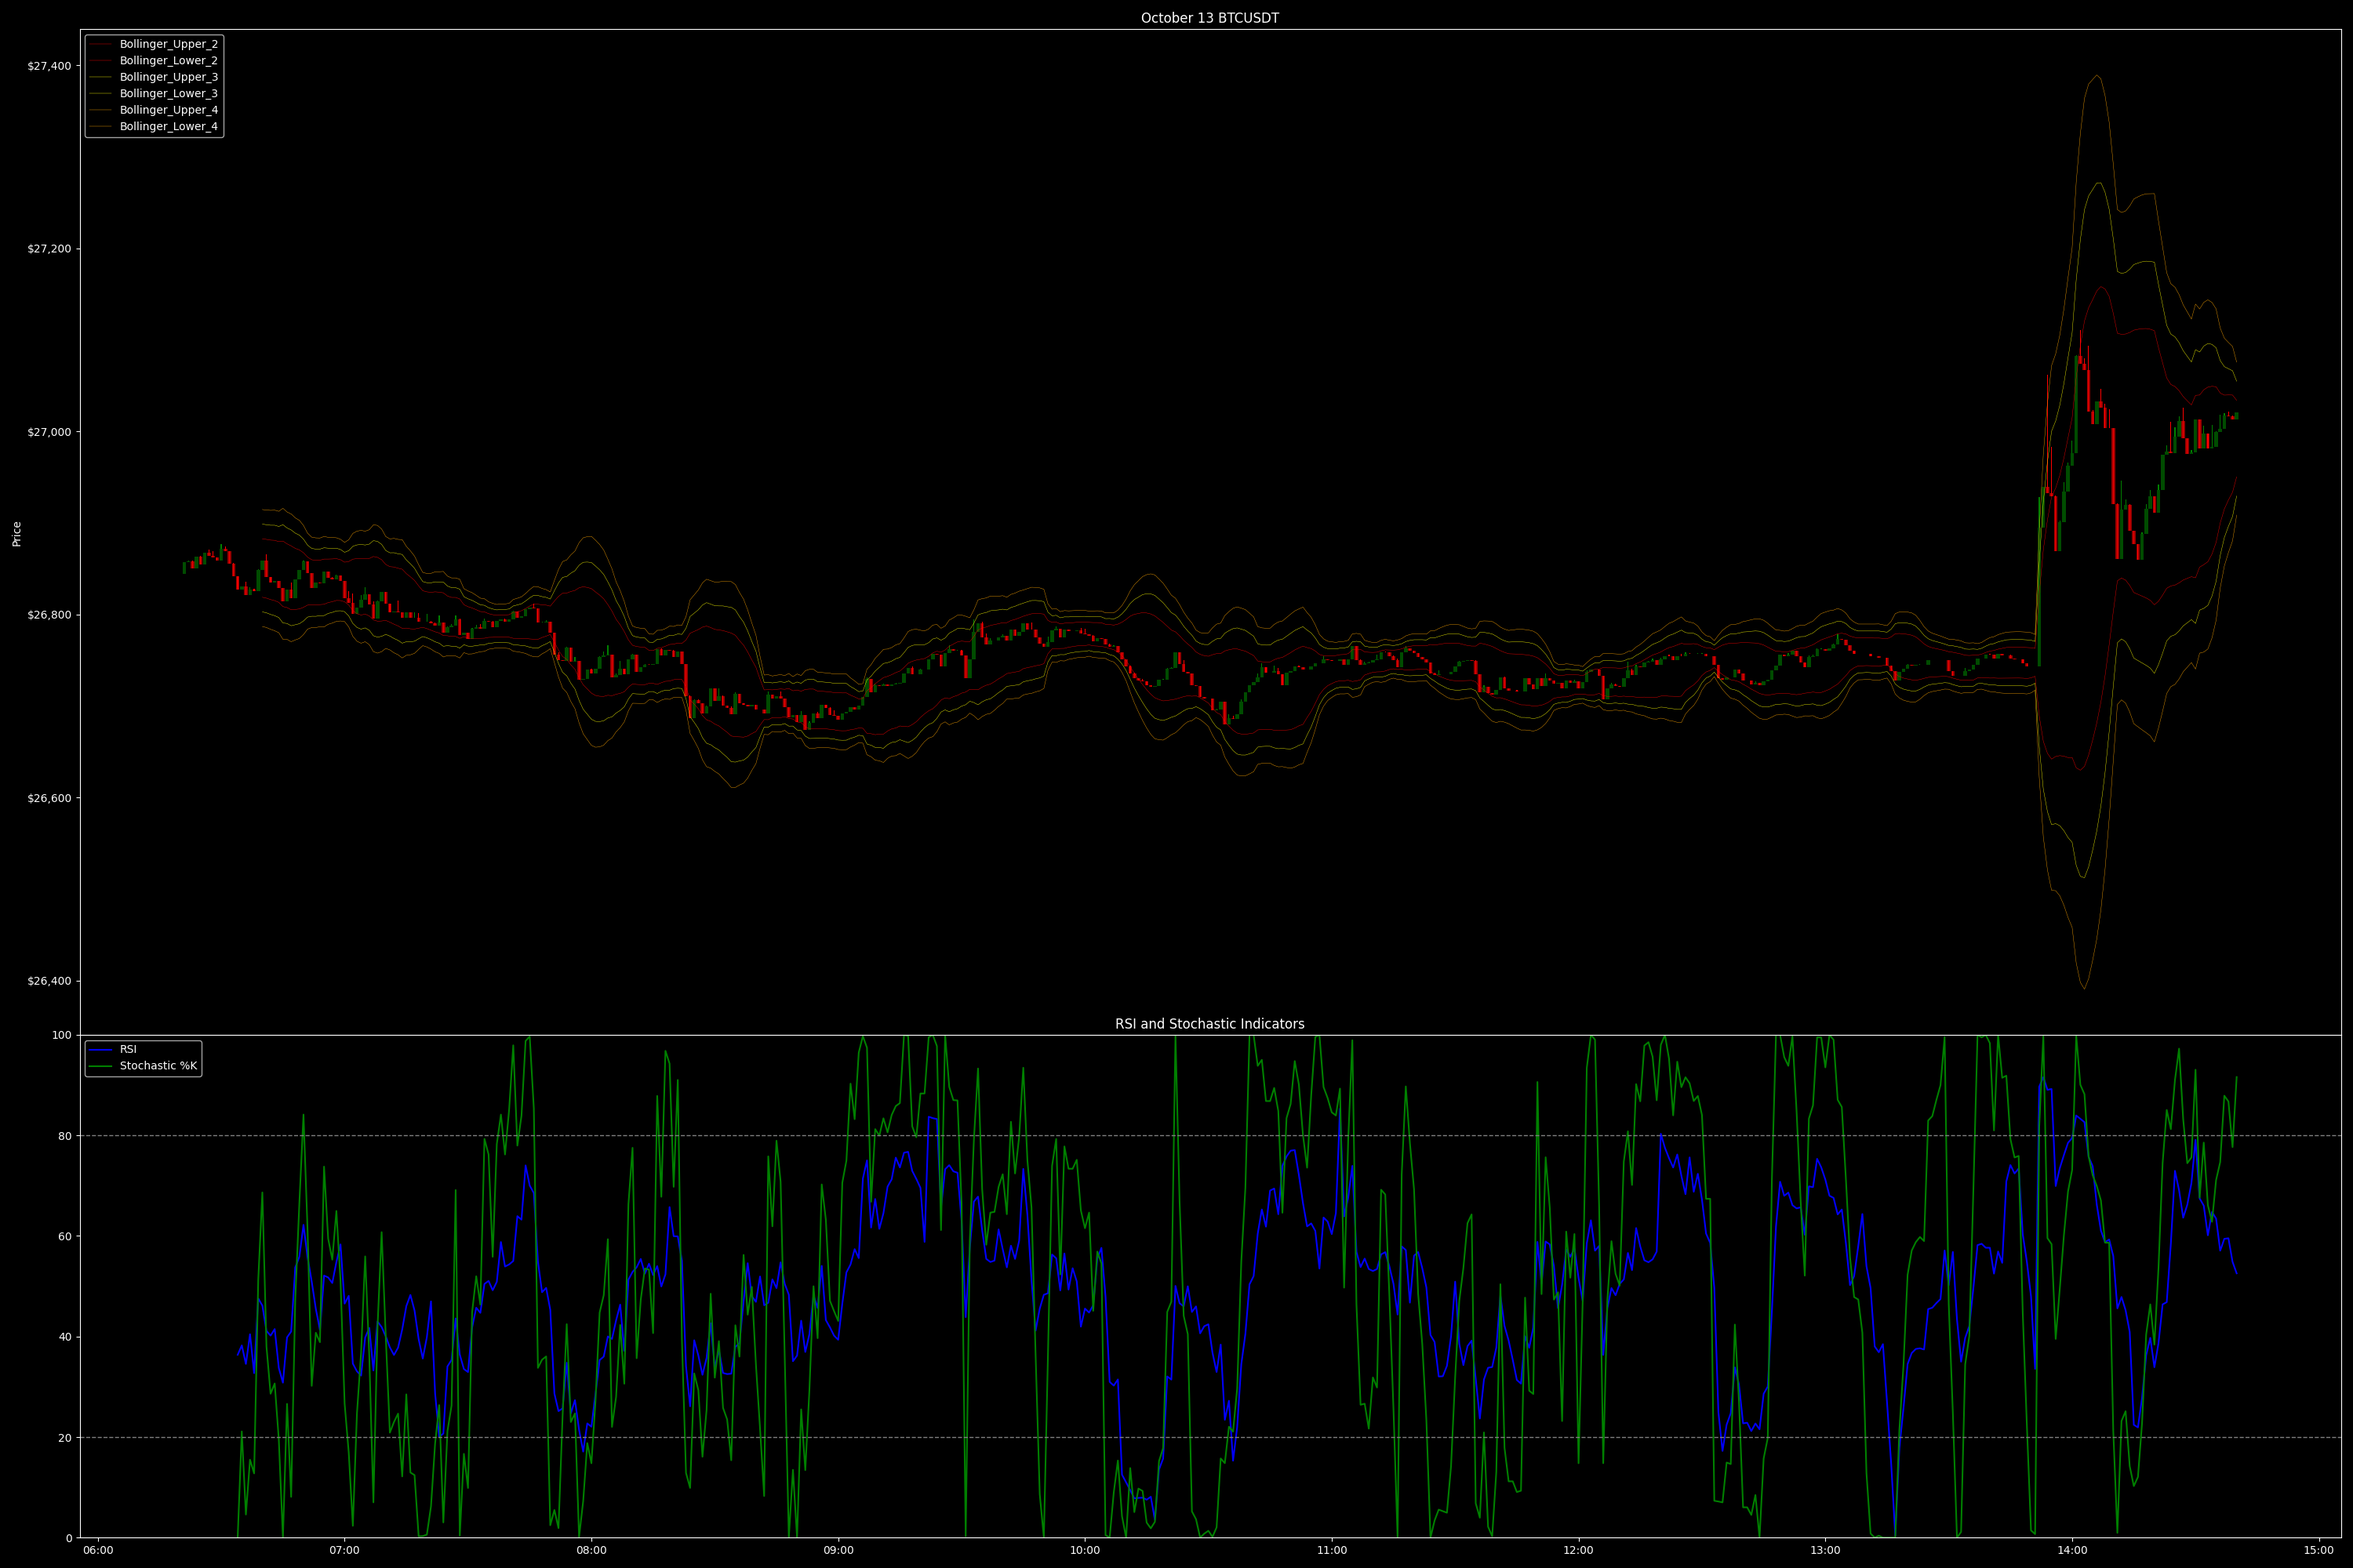
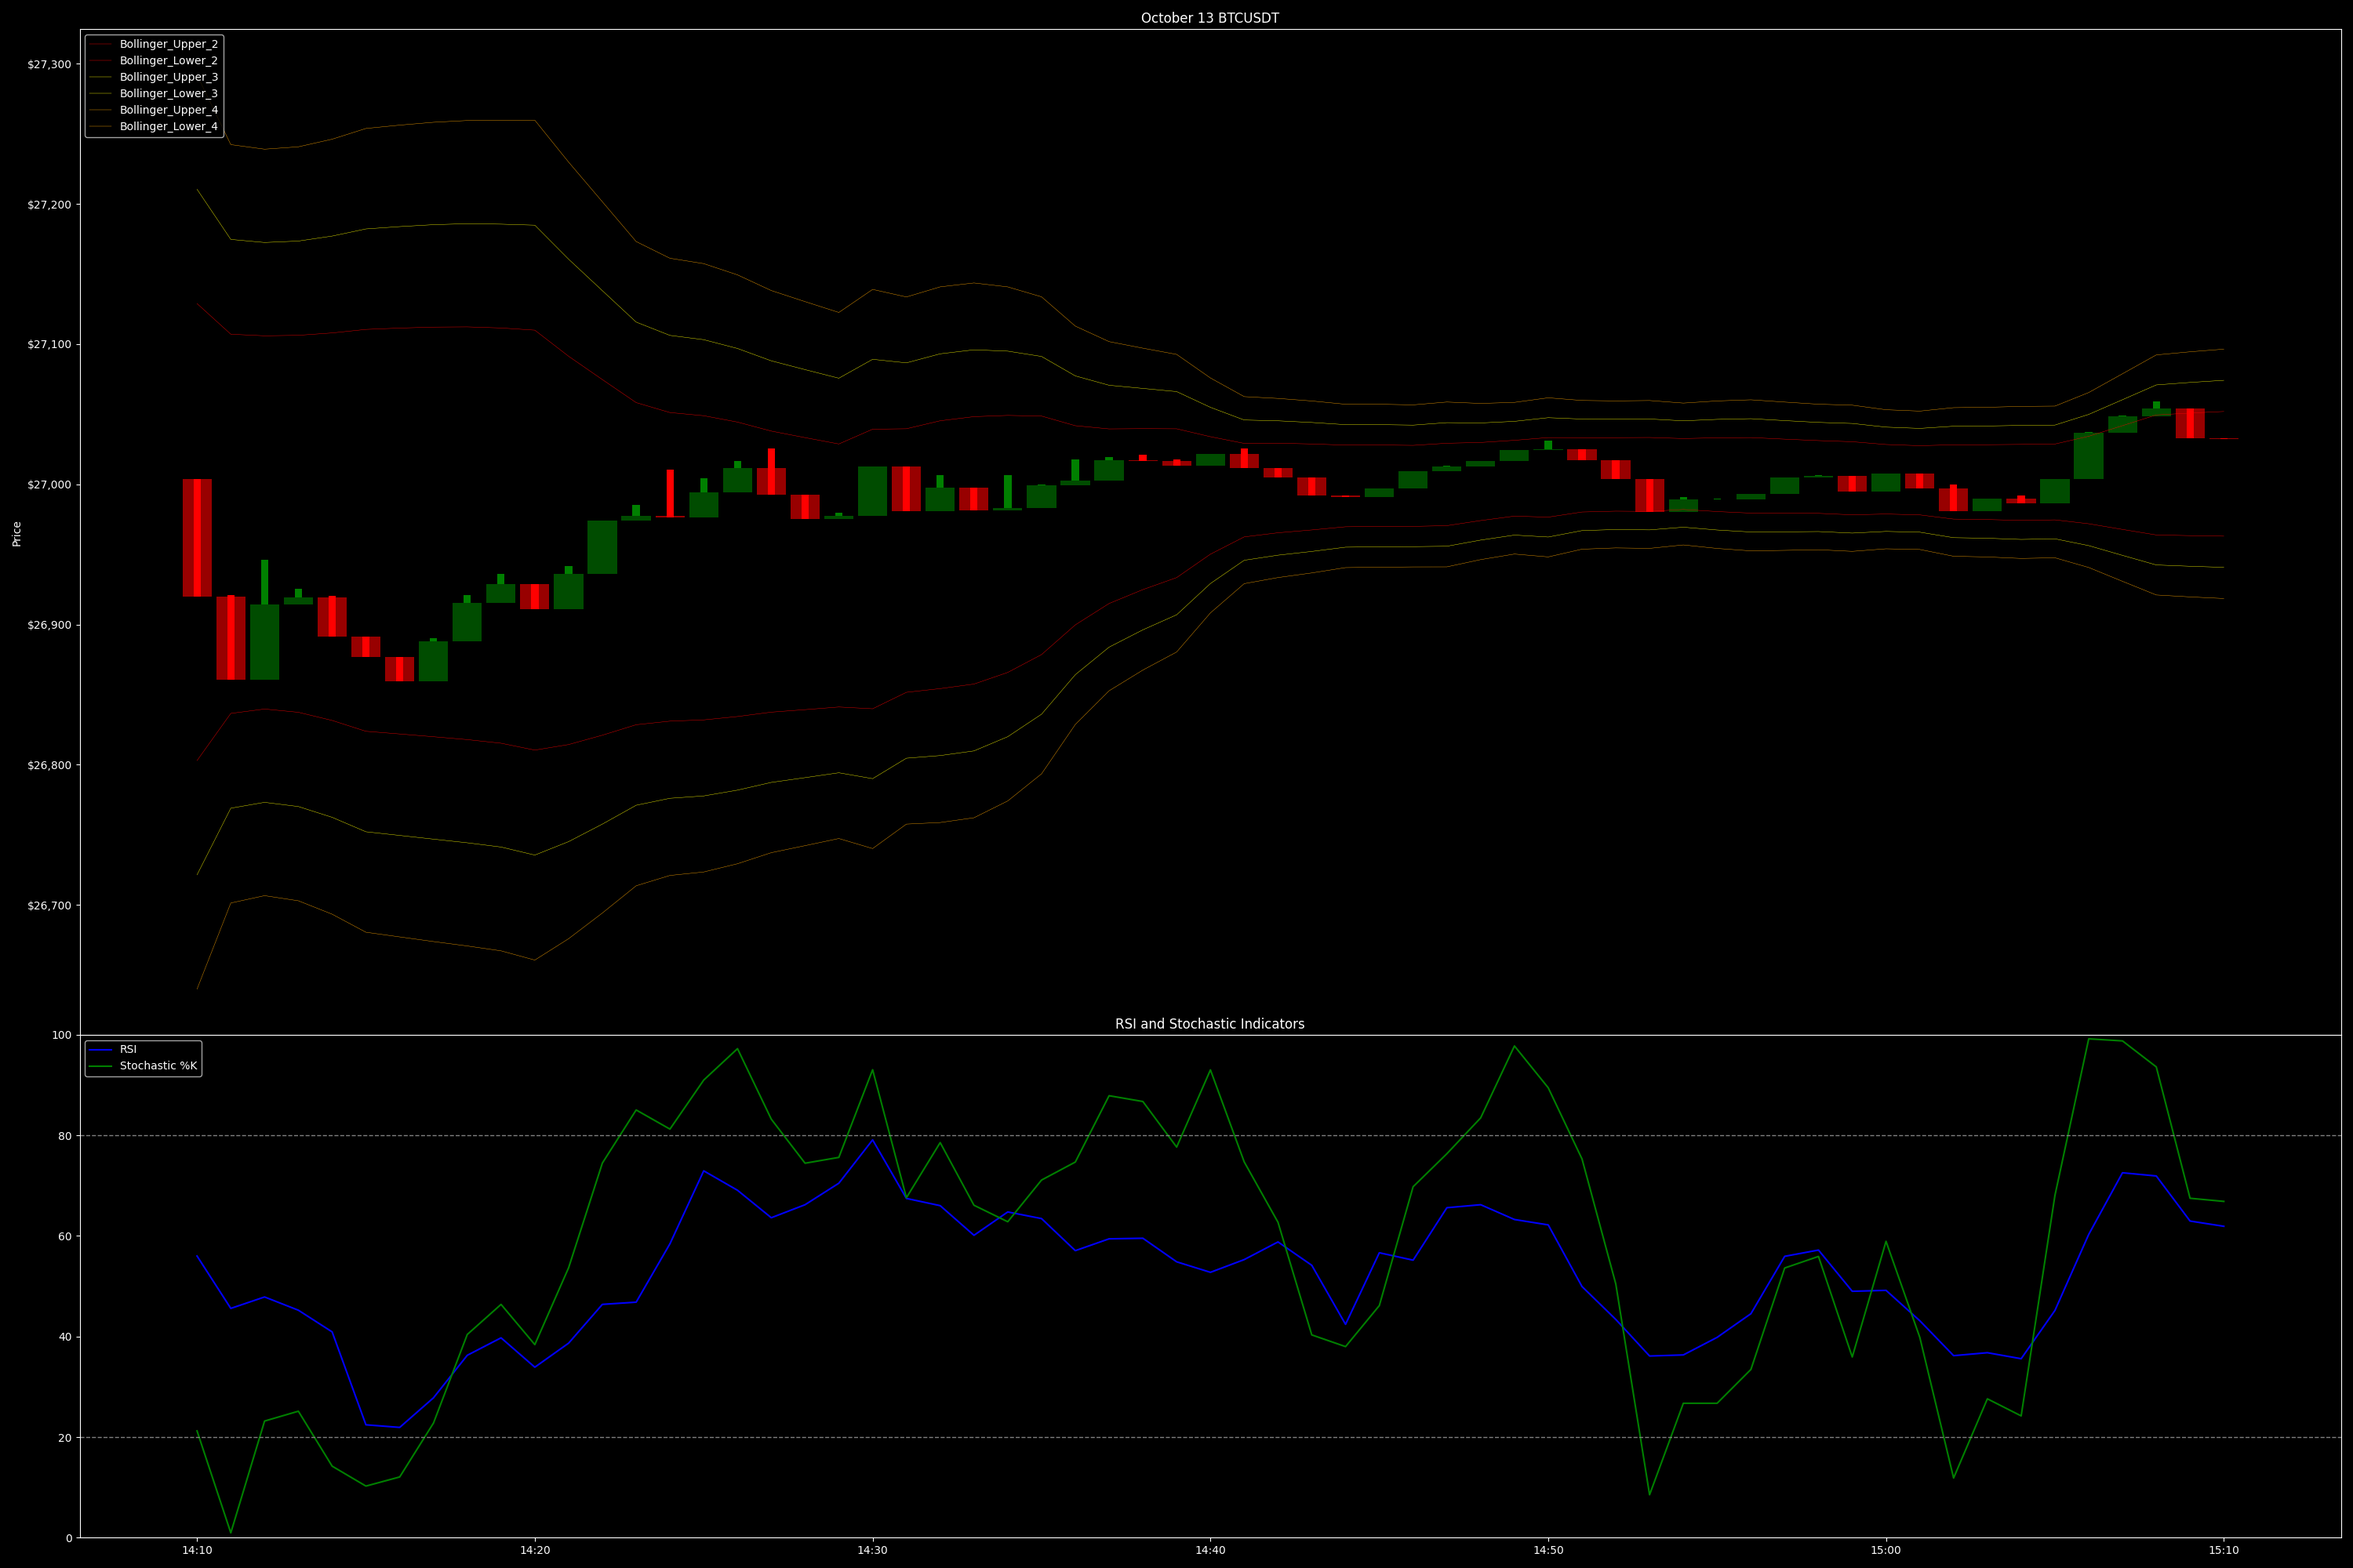
plotting with duration impl

diff --git a/main.py b/main.py
@@ -32,13 +32,13 @@ trader = None  # Initialize trader to None
 @bot.command(name="kraken")
 async def kraken(ctx):
     global trader
-    await ctx.send("🔥 Initializing Kraken bot 🐙. Hold please ⏳")
+    await ctx.send("🥚 Initializing Kraken bot🥚. Hold please ⏳")
 
     # Initialize Trader and connect
     trader = Trader()
     asyncio.create_task(trader.connect())
 
-    await ctx.send("🔥 Kraken bot Initialized 🐙")
+    await ctx.send("🐣 Kraken bot Initialized 🐙")
 
     # trading_task = asyncio.create_task(trader.connect())
     # Wait for the trading task to complete (if ever)
@@ -46,25 +46,26 @@ async def kraken(ctx):
 
 
 @bot.command(name="plot")
-async def plot(ctx):
+async def plot(ctx, hours: int = 8):
     global trader
     if trader is None:
         await ctx.send("❌ Kraken bot is not initialized. Please run !kraken first.")
         return
 
-    await ctx.send("🔥 Generating the plot. Hold please ⏳")
-
-    # Wait for a few seconds for the trading data to populate
-    await asyncio.sleep(5)  # adjust the time as needed
+    await ctx.send(f"📊 Generating the plot for the last {hours} hours. Hold please ⏳")
 
     # Fetch and print the trading data
-    data = trader.get_data()
+    # data = trader.get_data()
+
+    # Fetch and filter the trading data based on the number of hours
+    data = trader.get_data_last_n_hours(hours)
 
     # Generate the plot and save it as a PNG file
     file_path = "kraken_plot.png"
     plot_candlestick_with_bollinger(data, save_path=file_path)
 
-    await ctx.send("📊 Here's your plot:", file=File(file_path))
+    # await ctx.send("", file=File(file_path))
+    await ctx.send(file=File(file_path))
 
 
 @bot.event

diff --git a/bitget/trader.py b/bitget/trader.py
@@ -6,7 +6,7 @@ import hmac
 import hashlib
 import base64
 import pandas as pd
-from datetime import datetime
+from datetime import datetime, timedelta
 
 import os
 from dotenv import load_dotenv
@@ -114,8 +114,7 @@ class Trader:
             if new_timestamp not in existing_timestamps:
                 self.data.append(new_data)
                 self.df = convert_to_dataframe(self.data)
-                human_time = datetime.fromtimestamp(new_timestamp)
-                trader_logger.info(f"New update, df regenerated: {human_time}")
+                trader_logger.info(f"New update, df regenerated: {new_timestamp}")
 
             await self.maintain_data_size()
         else:
@@ -128,6 +127,21 @@ class Trader:
     def get_data(self):
         # print(self.df.describe())
         return self.df
+
+    def get_data_last_n_hours(self, hours):
+        # Get the latest timestamp in the DataFrame
+        latest_timestamp = self.df["Timestamp"].max()
+
+        # Convert the number of hours into a timedelta
+        time_delta = timedelta(hours=hours)
+
+        # Calculate the oldest data point that we are interested in based on the latest timestamp
+        oldest_time_of_interest = latest_timestamp - time_delta
+
+        # Filter the DataFrame to only include data from the last 'hours' hours
+        filtered_df = self.df[self.df["Timestamp"] >= oldest_time_of_interest]
+
+        return filtered_df
 
     def generate_signature(self):
         timestamp = str(int(time.time()))

diff --git a/plot.py b/plot.py
@@ -97,20 +97,11 @@ def plot_candlestick_with_bollinger(df, save_path=None, save_csv=False):
     }
     plot_bollinger_bands(ax, df, bollinger_labels_colors)
 
-    # Calculate RSI
-    delta = df["Close"].diff()
-    gain = (delta.where(delta > 0, 0)).rolling(window=14).mean()
-    loss = (-delta.where(delta < 0, 0)).rolling(window=14).mean()
-    rs = gain / loss
-    rsi = 100 - (100 / (1 + rs))
+    # RSI
+    ax_indicator.plot(df["Date"], df["RSI"], label="RSI", color="b")
 
-    ax_indicator.plot(df["Date"], rsi, label="RSI", color="b")
-
-    # Calculate Stochastic Oscillator and Plot on ax_indicator
-    low_min = df["Low"].rolling(window=14).min()
-    high_max = df["High"].rolling(window=14).max()
-    k = 100 * ((df["Close"] - low_min) / (high_max - low_min))
-    ax_indicator.plot(df["Date"], k, label="Stochastic %K", color="g")
+    # Stochastic
+    ax_indicator.plot(df["Date"], df["Stochastic"], label="Stochastic %K", color="g")
 
     # Common indicators for ax_indicator
     ax_indicator.axhline(80, linestyle="--", linewidth=1, color="grey")
